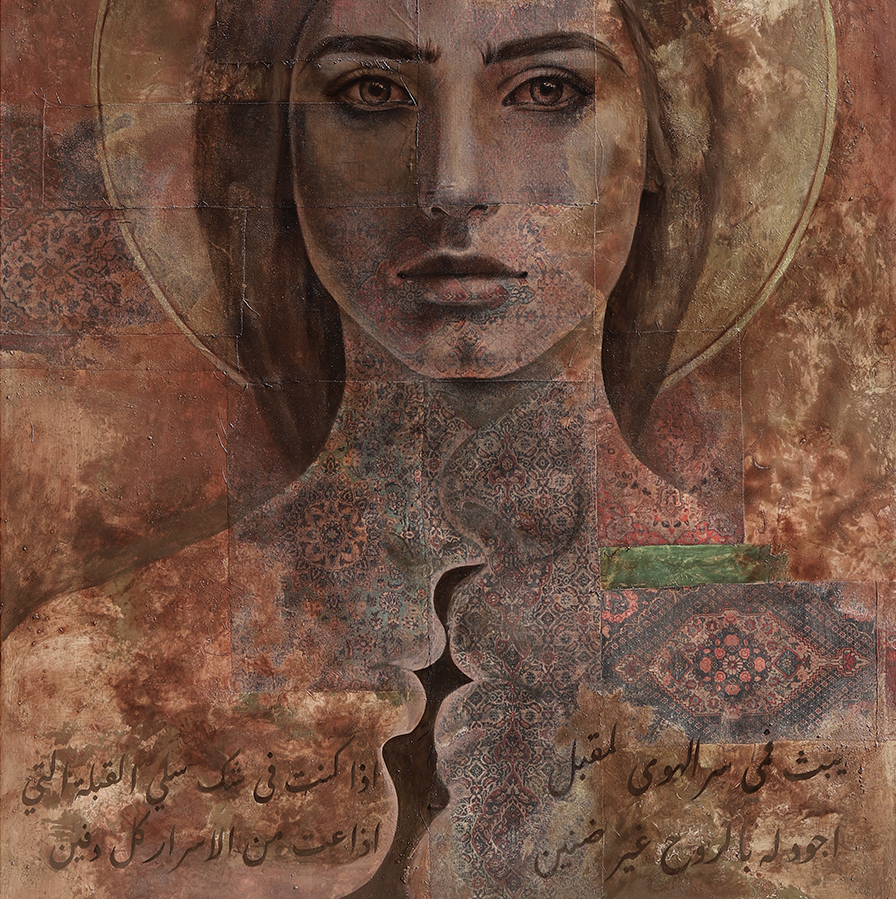
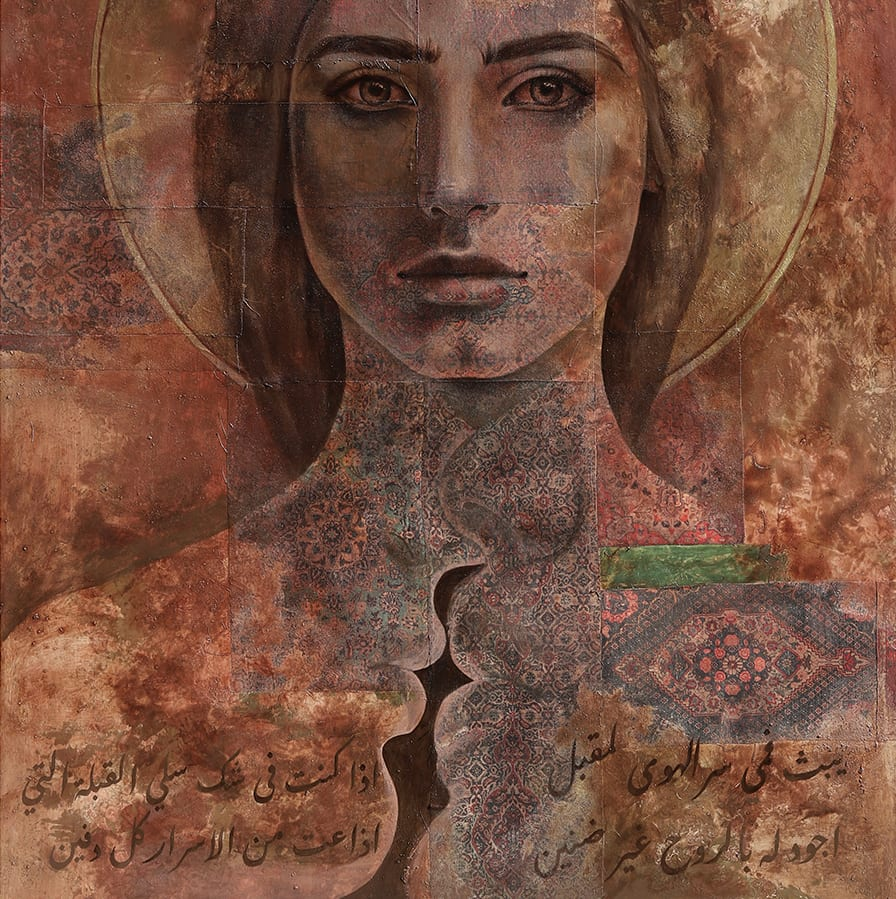
Re-encode public/media/site: 31 MB to 5 MB
The content export committed the stored originals straight from the old
site's CDN. Right for an archive, wrong for public/: they had never been
through an encoder, and the two most important images on the site —
home-hero.jpg at 8.95 MB and about-portrait.jpg at 9.82 MB — were between
them 19 MB of the 31 MB in that directory.

Adds scripts/optimise-media.mjs and runs it over public/media/site only.

Two rules, both chosen so nothing visible is lost. Width is capped at 2560,
which is the largest entry in deviceSizes in next.config.mjs, so next/image
cannot request a larger rendition under any viewport or DPR and the removed
pixels were unreachable. JPEG is then re-encoded at quality 82 with mozjpeg.

Result: 31.0 MB -> 5.1 MB across 10 of 12 files. The largest mean
per-channel difference is 1.81/255, or 0.7% — the script measures and
reports this per file rather than asking anyone to take it on trust. Two
files were left alone as already small and within the cap, og-image.jpg
among them.

Three images were wider than the cap and were resized. Their aspect ratios
are preserved to four decimal places, so the masonry — which packs purely
from aspect ratio — is unaffected. data/image-dimensions.json is
regenerated; exactly those three entries changed, none added or removed.
data/image-trim.json needed no change because trims are stored as fractions.

The script only writes when it saves at least 15%. That is what makes it
[…]

diff --git a/README.md b/README.md
@@ -123,7 +123,7 @@ Worth stating plainly, since the brief asked for honesty about this:
 
 Everything comes from `data/` — a structured export of the artist's previous
 site, committed in full: 8 exhibitions holding 128 works, 7 illustrations, 5
-interviews, the biography and CV, and 152 media files at original resolution —
+interviews, the biography and CV, and 152 media files —
 plus `karim-media/`, the recovered archive and the gallery catalogue that names
 31 of those works. No component hard-codes a fact or an image path.
 
@@ -166,6 +166,30 @@ them, marked `lang="ar" dir="rtl"` so they render and read correctly, and set
 in a self-hosted Noto Naskh Arabic — added to every font stack, where its
 unicode-range means it is reached for an Arabic codepoint and never for a Latin
 one. No English renderings were invented.
+
+### Media weight
+
+The export committed the stored originals straight from the old site's CDN.
+That was right for an archive and wrong for `public/`: they had never been
+through an encoder, and the two images on the home and about pages were 9 MB
+each.
+
+`scripts/optimise-media.mjs` caps width at 2560 — the largest entry in
+`deviceSizes`, so nothing above it can ever be served — and re-encodes at
+quality 82. It reports the mean per-channel difference for every file it
+rewrites, and only writes when it saves at least 15%, which makes a second run
+a no-op rather than another round of lossy encoding.
+
+`public/media/site/` has been through it: **31 MB to 5 MB**, largest mean
+difference 1.8/255. `public/media/exhibitions/` has not — those files may be
+replaced wholesale if the gallery's own photography is cleared, so optimising
+them now would likely be wasted. Originals are not duplicated anywhere: they
+are blobs in git history, recoverable with
+`git show <commit>:public/media/<path>`.
+
+Re-run `node scripts/measure-media.mjs` after any change here — the masonry
+reserves each box from `data/image-dimensions.json` before the image loads, and
+stale numbers mean the grid jumps as it fills.
 
 See **[docs/UPDATING_CONTENT.md](./docs/UPDATING_CONTENT.md)** to change any of
 it, and **[docs/CONTENT_ARCHIVE.md](./docs/CONTENT_ARCHIVE.md)** for how the
